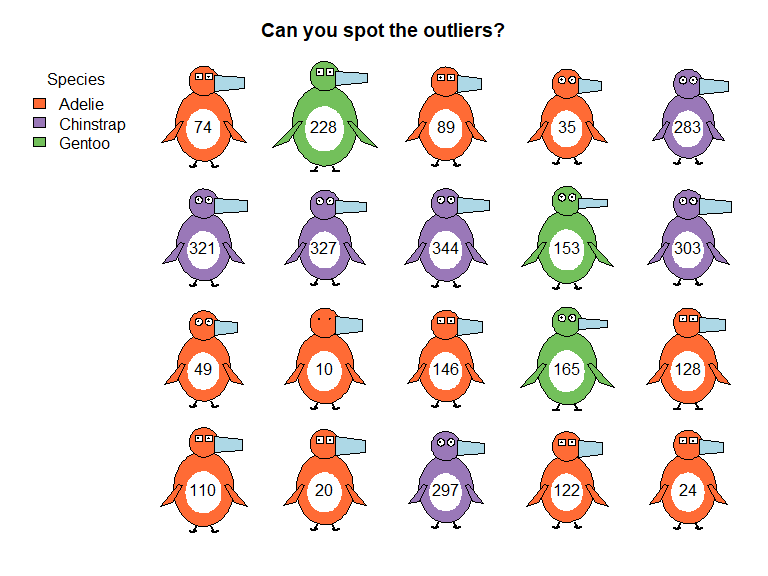
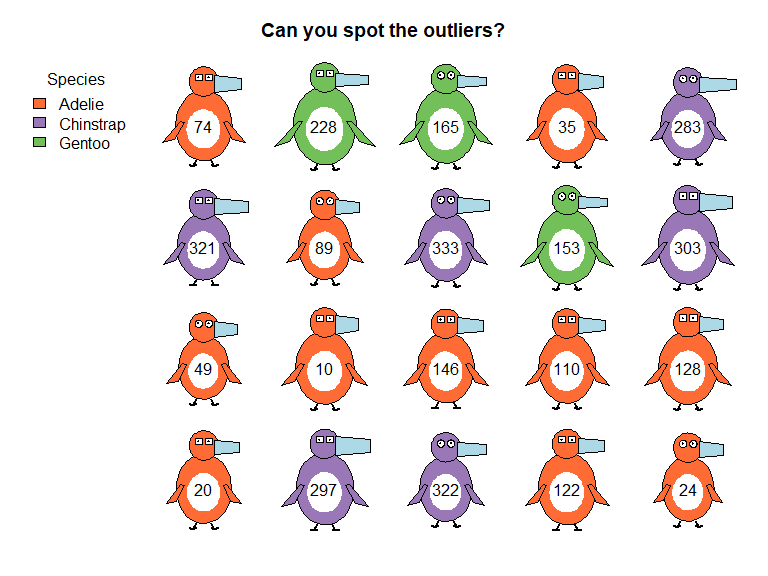
Revise introduction vignette; number cases as in heplots::peng
- introduction: glyphs in other plots (scatterplot, PCA), outliers shown in
  the first and last two principal components, scaling with ref, cex.lab,
  rewritten interpretation and conclusion, references
- Number the complete cases 1:333, as in heplots::peng, so the outliers are
  cases 283, 10, 35 as in Vis-MLM; fix README and penguin_glyphs() example,
  which indexed the raw data with those numbers
- Cite Vis-MLM book

diff --git a/README.md b/README.md
@@ -114,9 +114,12 @@ penguin_legend("topleft", peng$species)
 ### Advanced Examples
 
 ``` r
-# Examine specific outliers
+# Examine specific outliers, among the penguins with complete data.
+# Renumbering the rows gives the same case numbers as in heplots::peng
+peng <- na.omit(penguins)
+rownames(peng) <- NULL
 outliers <- c(10, 35, 283)
-penguin_glyphs(penguins[outliers,], main = "Notable Penguins")
+penguin_glyphs(peng[outliers,], main = "Notable Penguins")
 ```
 
 <img src="man/figures/README-outliers-1.png" alt="" width="90%" />
@@ -124,9 +127,9 @@ penguin_glyphs(penguins[outliers,], main = "Notable Penguins")
 ``` r
 # Create a lineup for visual inference
 set.seed(42)
-cast <- c(sample(1:nrow(penguins), size = 17), outliers)
+cast <- c(sample(1:nrow(peng), size = 17), outliers)
 lineup <- sample(cast, size = length(cast))
-penguin_glyphs(penguins[lineup,], main = "Can you spot the outliers?")
+penguin_glyphs(peng[lineup,], main = "Can you spot the outliers?")
 ```
 
 <img src="man/figures/README-lineup-1.png" alt="" width="90%" />
